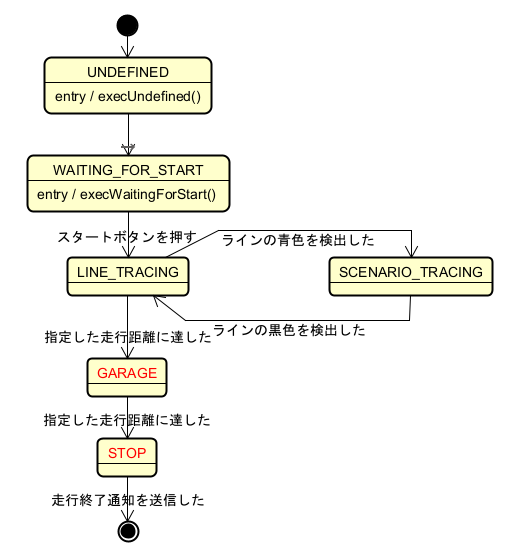
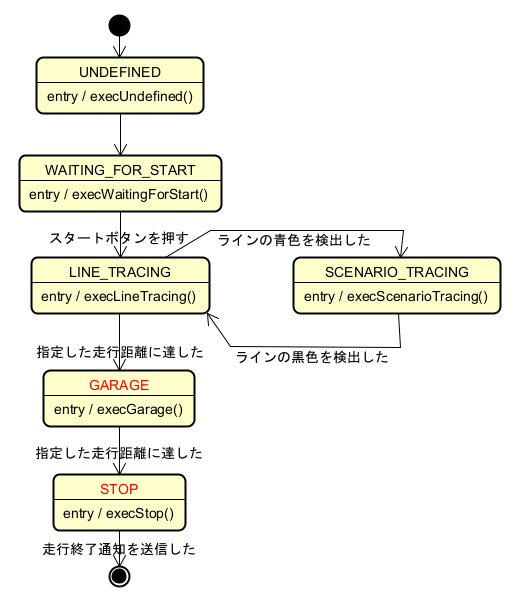
document add

Changed region(s): [[0.0294, 0.0, 0.9687, 0.9784]]

diff --git a/doc/iter05.md b/doc/iter05.md
@@ -5,8 +5,11 @@
 
 ## 設計
 * システム全体の状態遷移
-![](iter05_stm.png)
+
+    ![](iter05_stm.png)
+    
     * 状態 ```GARAGE```, ```STOP```を追加
+    * 内部遷移を追加
     * 各イベントを見直し
 
 ## 実装
@@ -29,7 +32,7 @@ private:
     * ```void execStop();```
 
 ```
-        void execLineTracing();
+    void execLineTracing();
     void execScenarioTracing();
     void execGarage();  // 追加
     void execStop();    // 追加
